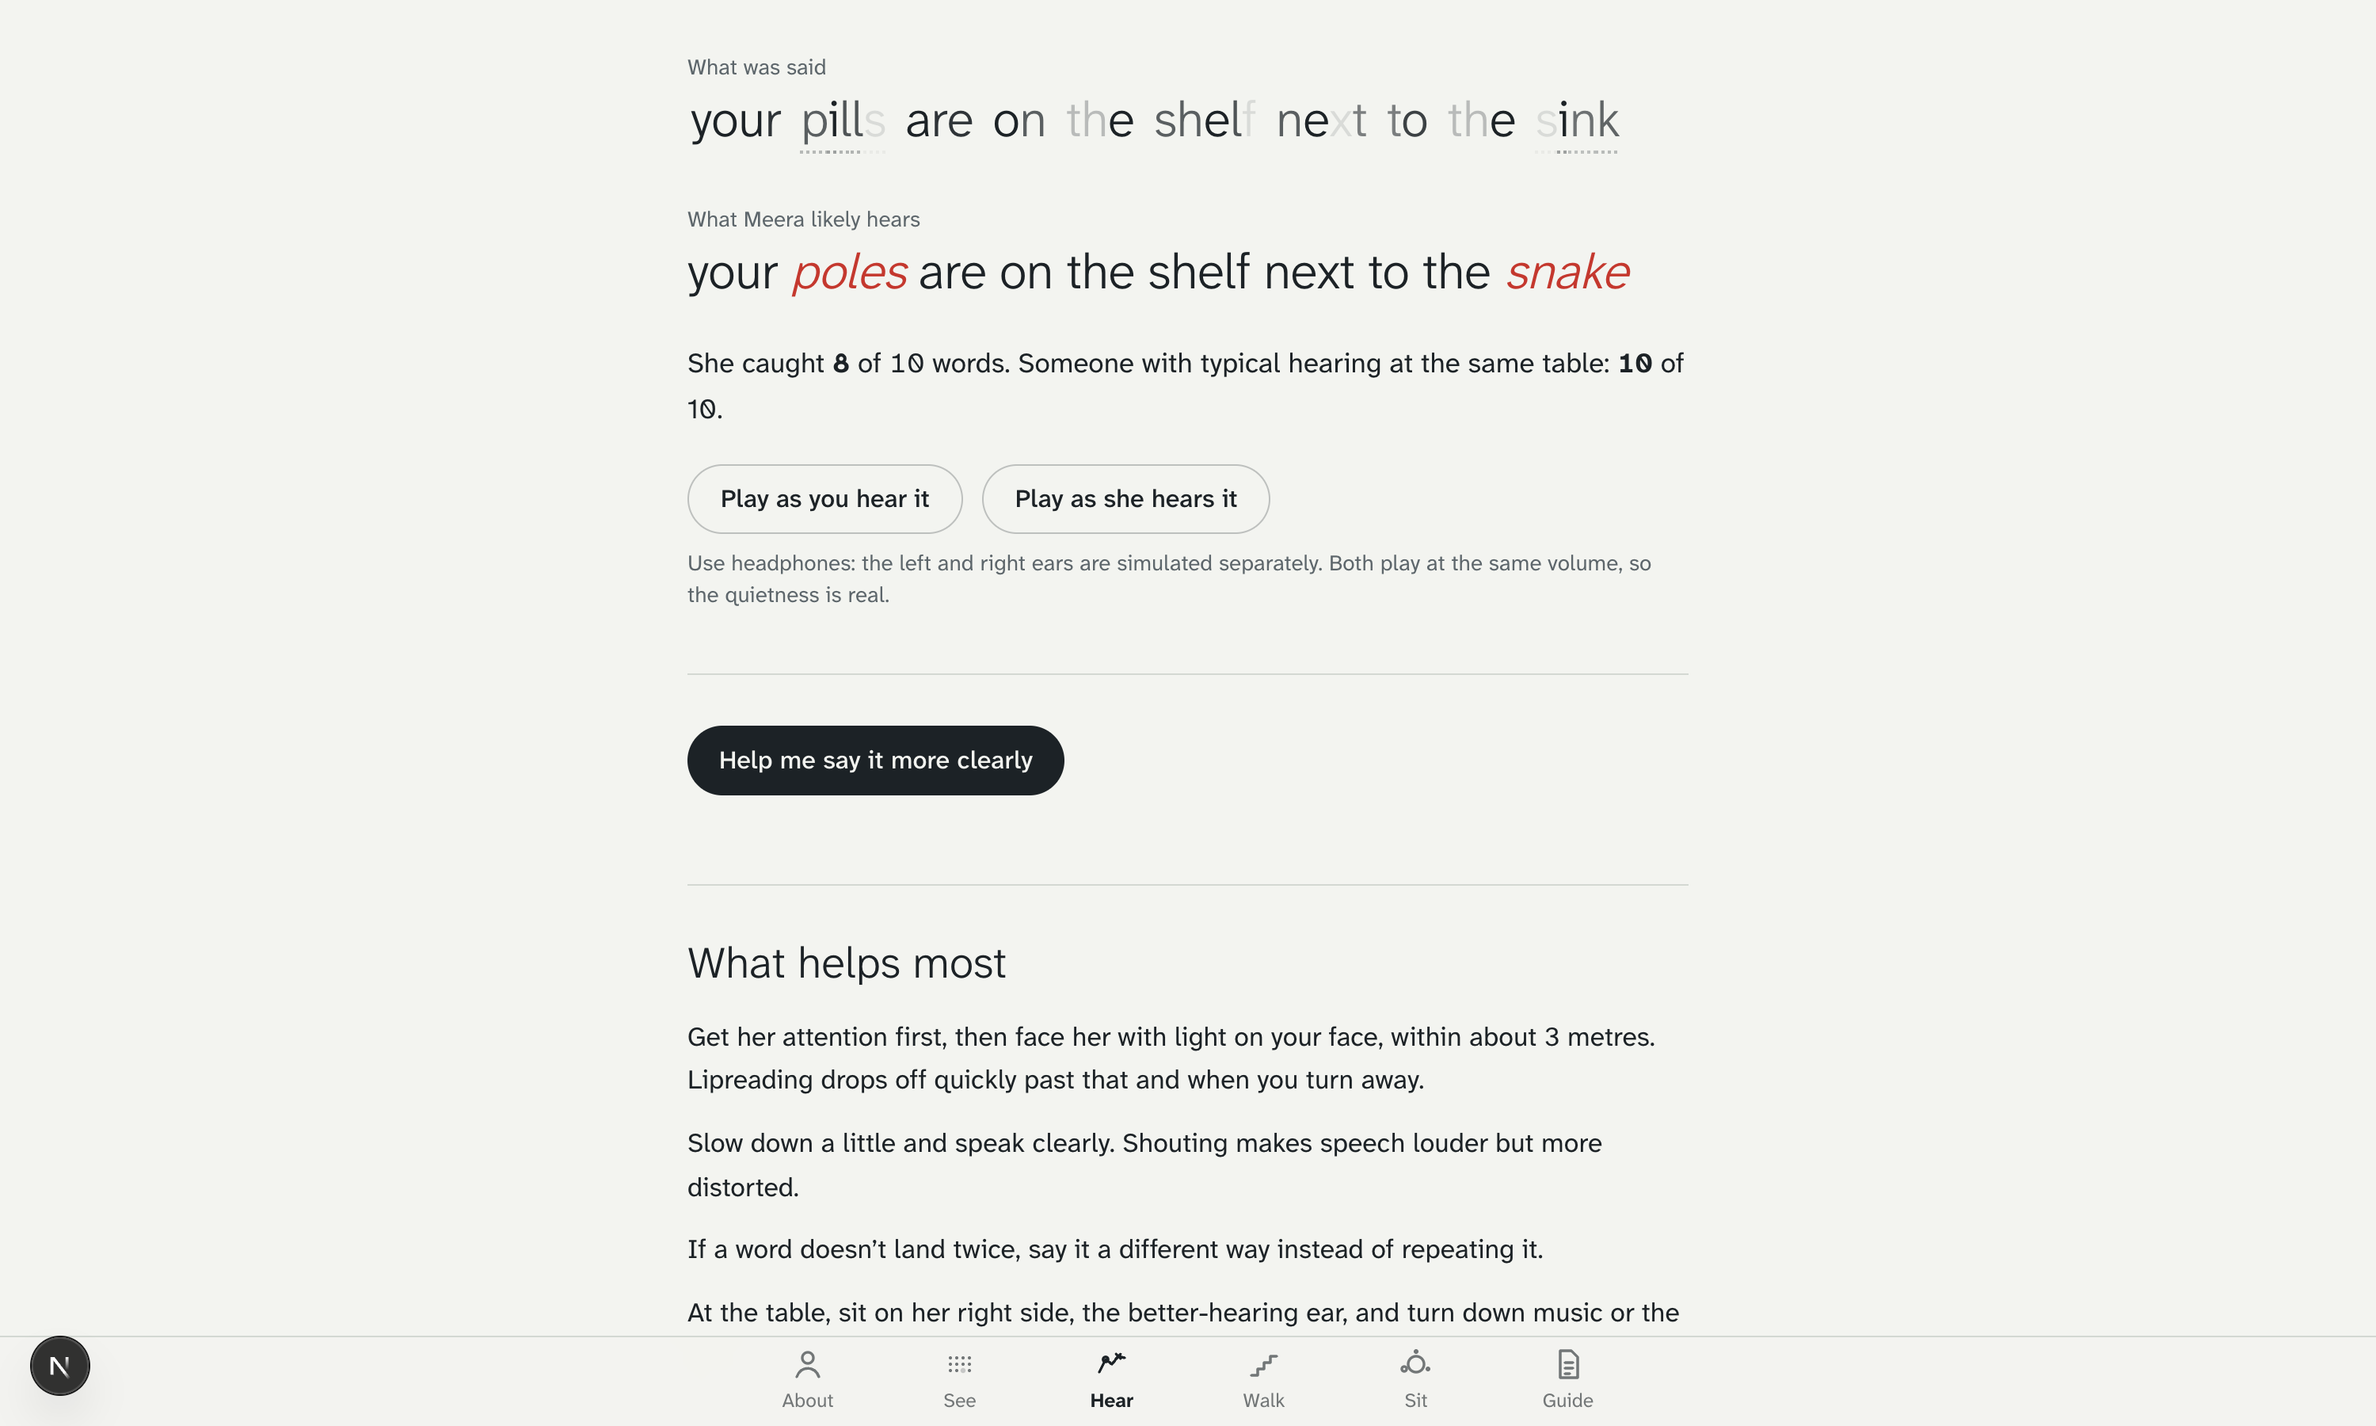
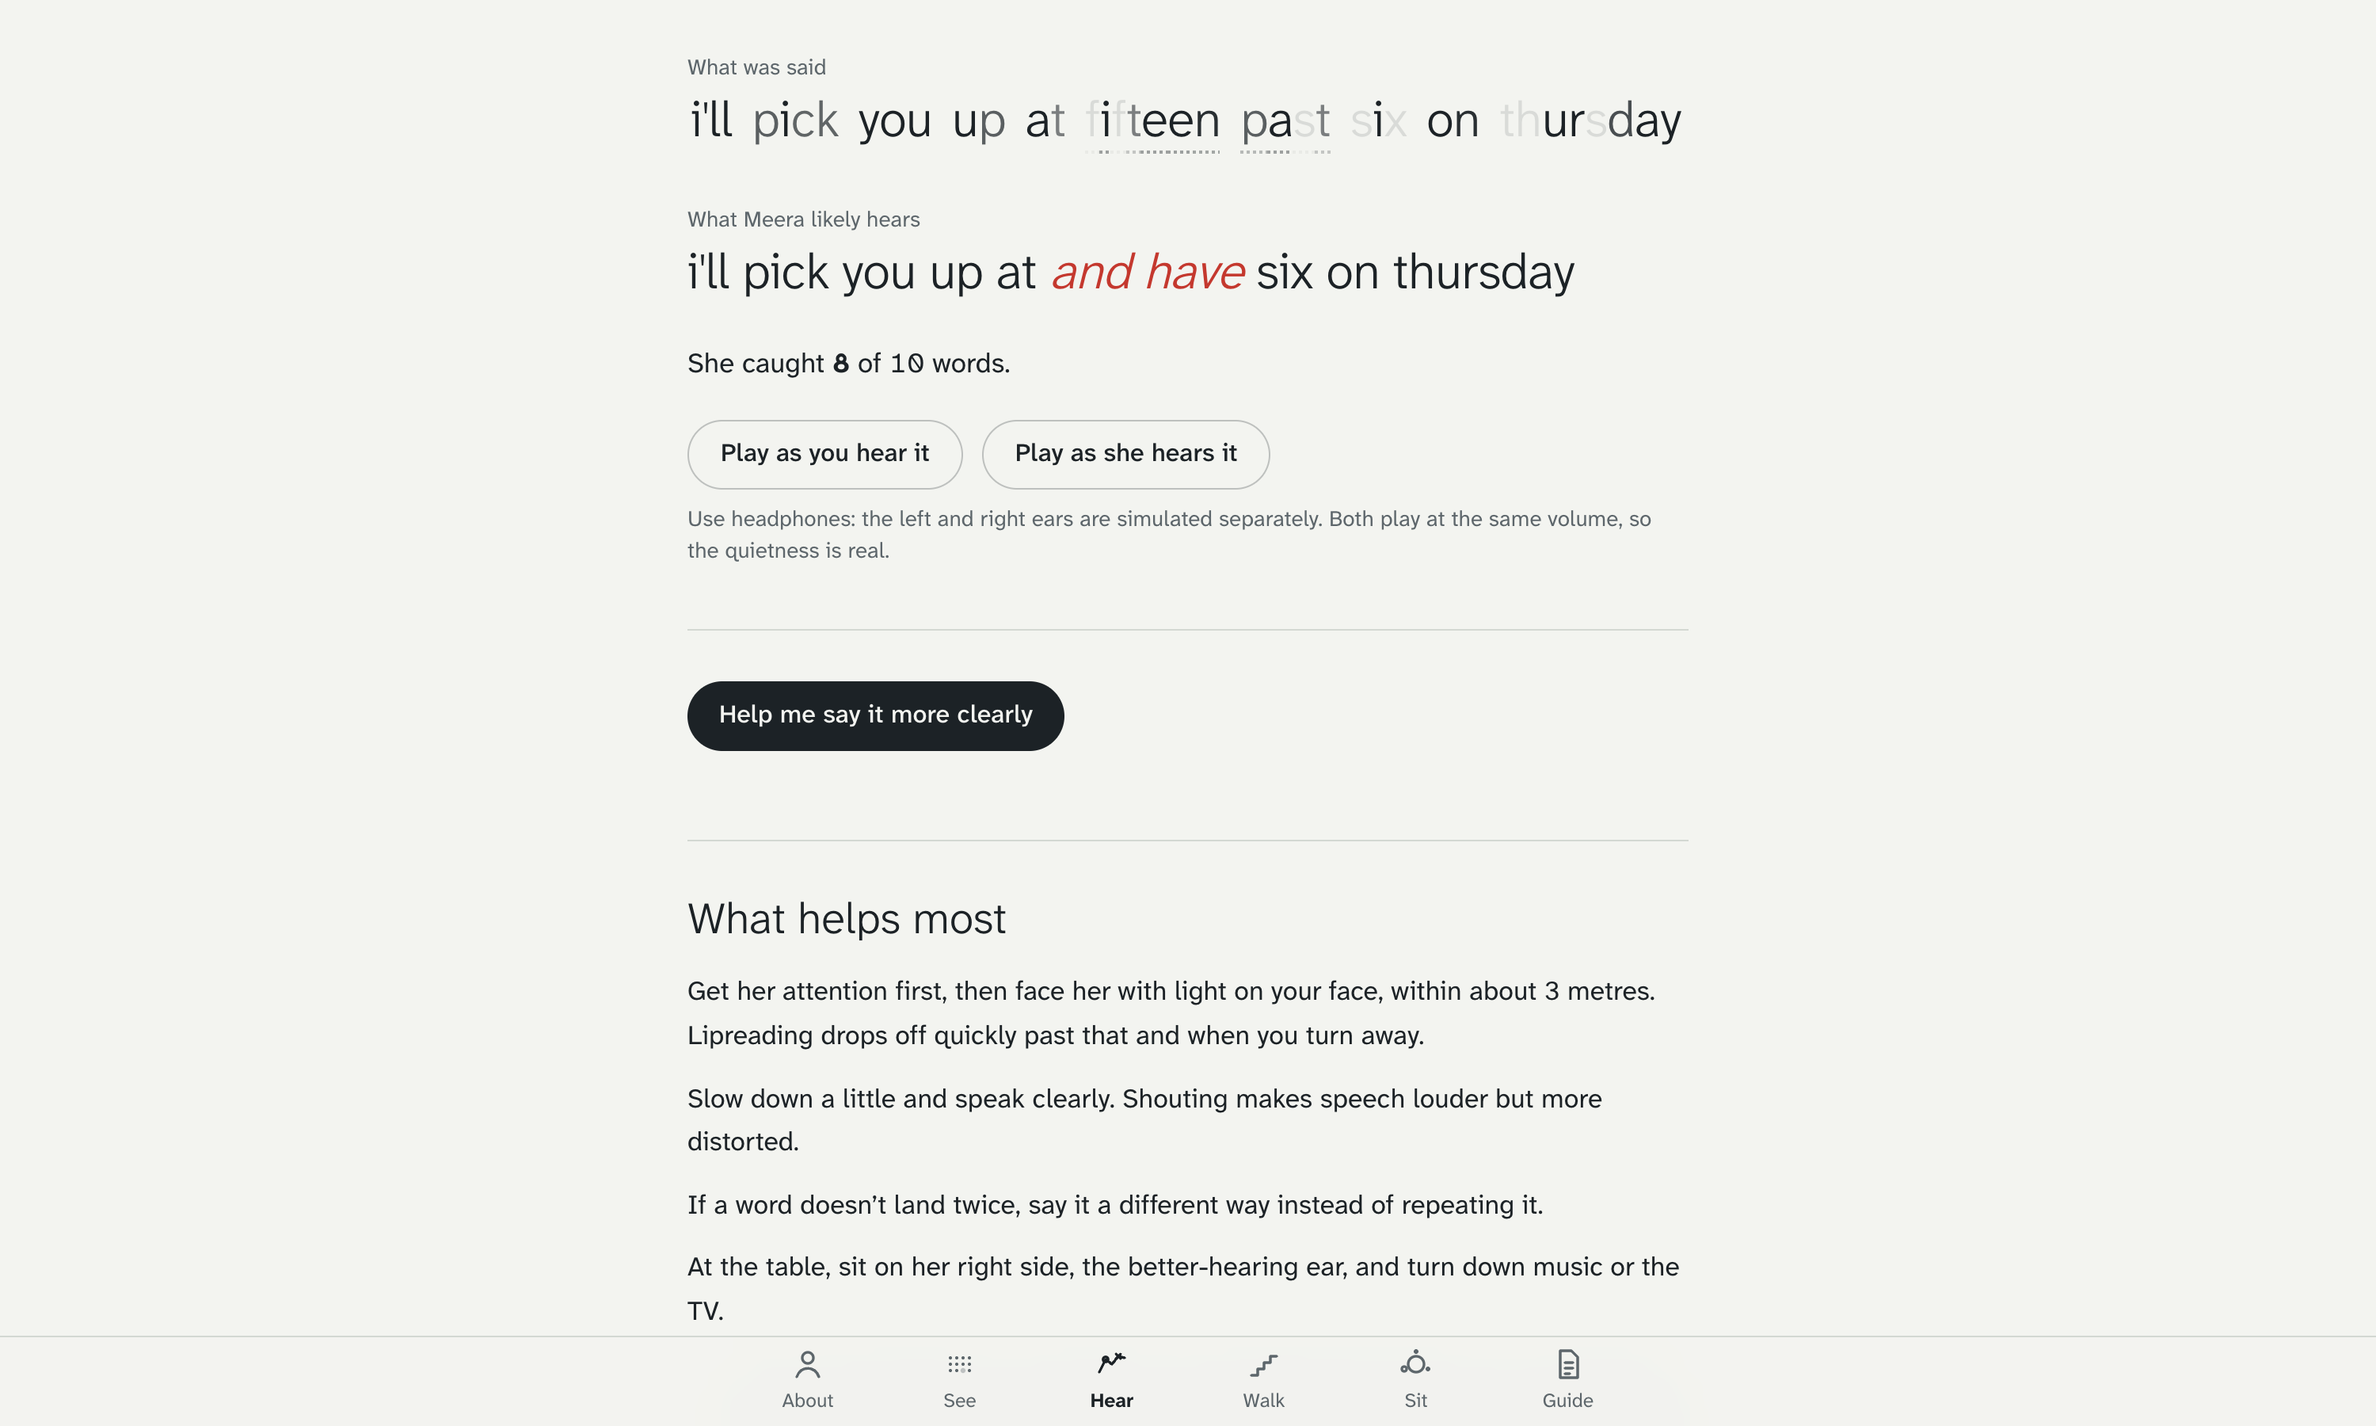
Show every heard word, including insertions (fifteen -> fifty)
- hearing: heardTokens from a similarity-weighted display alignment; counting still uses the validated alignment
- web: Hear transcript renders heard tokens in order; docs and gallery quote current production output
- gallery script can regenerate single shots (ONLY=hear)

diff --git a/web/src/app/p/[id]/hear/page.tsx b/web/src/app/p/[id]/hear/page.tsx
@@ -93,7 +93,7 @@ export default function Hear() {
           if (ev.type === "said") {
             acc.r = { said: ev.said, words: ev.words, betterEar: ev.betterEar, audio: { you: ev.audio.you }, pending: { her: true, typical: snr !== null } };
           } else if (ev.type === "her" && acc.r) {
-            acc.r = { ...acc.r, words: ev.words, herText: ev.herText, herCorrect: ev.herCorrect, total: ev.total, audio: { ...acc.r.audio, her: ev.audio.her }, pending: { ...acc.r.pending, her: false } };
+            acc.r = { ...acc.r, words: ev.words, herText: ev.herText, heardTokens: ev.heardTokens, herCorrect: ev.herCorrect, total: ev.total, audio: { ...acc.r.audio, her: ev.audio.her }, pending: { ...acc.r.pending, her: false } };
           } else if (ev.type === "typical" && acc.r) {
             acc.r = { ...acc.r, typicalCorrect: ev.typicalCorrect, pending: { ...acc.r.pending, typical: false } };
           } else if (ev.type === "done" && acc.r) {
@@ -332,14 +332,18 @@ export default function Hear() {
               <p className="mt-2 animate-pulse text-[1.1rem] text-graphite">Listening through {person.name}’s hearing…</p>
             ) : (
             <p className="mt-1 text-[2rem] font-light leading-[1.25] tracking-[-0.01em]">
-              {result.words.map((w, i) => (
+              {(result.heardTokens ?? []).map((t, i) => (
                 <span key={i}>
-                  {w.status === "heard" ? (
-                    <span>{w.said}</span>
-                  ) : w.status === "misheard" ? (
-                    <span className="italic text-right-ear">{w.heard}</span>
+                  {t.s === "ok" ? (
+                    <span>{t.w}</span>
+                  ) : t.s === "wrong" ? (
+                    <span className="italic text-right-ear" title={t.said ? `said: ${t.said}` : "added"}>
+                      {t.w}
+                    </span>
                   ) : (
-                    <span className="text-graphite">…</span>
+                    <span className="text-graphite" aria-label="unclear">
+                      …
+                    </span>
                   )}{" "}
                 </span>
               ))}

diff --git a/web/src/app/dev/renderer/RendererTest.tsx b/web/src/app/dev/renderer/RendererTest.tsx
@@ -1,6 +1,6 @@
 "use client";
 
-import { useEffect, useState } from "react";
+import { useEffect, useRef } from "react";
 import { emptyGrid, interpolateField, MAP_SIZE, PRINTOUT_ROWS } from "@/lib/field";
 import { FieldRenderer } from "@/lib/vision/renderer";
 
@@ -46,7 +46,7 @@ function stats(px: Uint8Array) {
 }
 
 export function RendererTest() {
-  const [result, setResult] = useState<string>("running");
+  const out = useRef<HTMLPreElement>(null);
   useEffect(() => {
     const canvas = document.createElement("canvas");
     canvas.width = SIZE;
@@ -84,10 +84,14 @@ export function RendererTest() {
       moderateKeepsSome: levels[2].rms > 0.05 * s0.rms,
       meanPreserved: meanDrift < 0.04,
     };
-    const out = { pass: Object.values(checks).every(Boolean), checks, identityErr, deepFraction, meanDrift, levels, originalRms: s0.rms };
-    (window as unknown as { __rendererTest: unknown }).__rendererTest = out;
-    setResult(JSON.stringify(out, null, 1));
+    const result = { pass: Object.values(checks).every(Boolean), checks, identityErr, deepFraction, meanDrift, levels, originalRms: s0.rms };
+    (window as unknown as { __rendererTest: unknown }).__rendererTest = result;
+    if (out.current) out.current.textContent = JSON.stringify(result, null, 1);
     r.dispose();
   }, []);
-  return <pre className="p-4 text-xs">{result}</pre>;
+  return (
+    <pre ref={out} className="p-4 text-xs">
+      running
+    </pre>
+  );
 }

diff --git a/web/src/lib/hear.ts b/web/src/lib/hear.ts
@@ -19,6 +19,8 @@ export interface HearResult {
   betterEar: "left" | "right";
   audio: { you: string; her?: string };
   herText?: string;
+  /** Every heard word in order (including ones that replace or add to what was said). */
+  heardTokens?: { w: string; s: "ok" | "wrong" | "unclear"; said?: string | null }[];
   herCorrect?: number;
   total?: number;
   typicalCorrect?: number;

diff --git a/hearing/app/text.py b/hearing/app/text.py
@@ -56,3 +56,43 @@ def align(ref: list[str], hyp: list[str]) -> list[tuple[str | None, str | None]]
 
 def words_correct(ref: list[str], hyp: list[str]) -> int:
     return sum(1 for r, h in align(ref, hyp) if r is not None and r == h)
+
+
+def _similar(a: str, b: str) -> float:
+    from difflib import SequenceMatcher
+
+    return SequenceMatcher(None, a, b).ratio()
+
+
+def align_for_display(ref: list[str], hyp: list[str]) -> list[tuple[str | None, str | None]]:
+    """Alignment for showing what was heard: substitutions between similar-sounding
+    spellings (fifteen / fifty) are cheaper, so the pairing reads naturally.
+
+    Display only. Word counting uses align(), which the validation also uses.
+    """
+    n, m = len(ref), len(hyp)
+    d = [[0.0] * (m + 1) for _ in range(n + 1)]
+    for i in range(n + 1):
+        d[i][0] = float(i)
+    for j in range(m + 1):
+        d[0][j] = float(j)
+
+    def sub(a: str, b: str) -> float:
+        return 0.0 if a == b else 1.0 - 0.6 * _similar(a, b)
+
+    for i in range(1, n + 1):
+        for j in range(1, m + 1):
+            d[i][j] = min(d[i - 1][j] + 1, d[i][j - 1] + 1, d[i - 1][j - 1] + sub(ref[i - 1], hyp[j - 1]))
+    pairs: list[tuple[str | None, str | None]] = []
+    i, j = n, m
+    while i > 0 or j > 0:
+        if i > 0 and j > 0 and abs(d[i][j] - (d[i - 1][j - 1] + sub(ref[i - 1], hyp[j - 1]))) < 1e-9:
+            pairs.append((ref[i - 1], hyp[j - 1]))
+            i, j = i - 1, j - 1
+        elif i > 0 and abs(d[i][j] - (d[i - 1][j] + 1)) < 1e-9:
+            pairs.append((ref[i - 1], None))
+            i -= 1
+        else:
+            pairs.append((None, hyp[j - 1]))
+            j -= 1
+    return pairs[::-1]

diff --git a/hearing/app/main.py b/hearing/app/main.py
@@ -35,7 +35,7 @@ from app.sim import (
     to_fs,
     transcribe,
 )
-from app.text import align, normalize_words, words_correct
+from app.text import align, align_for_display, normalize_words, words_correct
 
 UNCLEAR_P = 0.4  # below this word probability the proxy listener is guessing
 PLAYBACK_FS = 22050
@@ -99,6 +99,23 @@ def _alignment(ref: list[str], heard: list[str]) -> list[dict]:
             status = "misheard"
         rows.append(dict(said=r, heard=h, status=status))
     return rows
+
+
+def _heard_display(ref: list[str], heard: list[str]) -> list[dict]:
+    """Every heard token in order, marked ok / wrong / unclear, for the transcript view."""
+    out: list[dict] = []
+    prev_unclear = False
+    for r, h in align_for_display(ref, heard):
+        if h is None:
+            continue
+        if h == "…":
+            if not prev_unclear:
+                out.append(dict(w="…", s="unclear"))
+            prev_unclear = True
+            continue
+        prev_unclear = False
+        out.append(dict(w=h, s="ok" if h == r else "wrong", said=r))
+    return out
 
 
 def _heard_text(heard: list[str]) -> str:
@@ -207,6 +224,7 @@ async def hear(
             dict(
                 type="her",
                 herText=_heard_text(heard),
+                heardTokens=_heard_display(ref, heard),
                 words=rows,
                 herCorrect=sum(r["status"] == "heard" for r in rows),
                 total=len(rows),

diff --git a/docs/SUBMISSION.md b/docs/SUBMISSION.md
@@ -27,7 +27,7 @@ We wanted a family to understand one specific person, from that person’s own t
 You load a visual field test (typed from the Humphrey printout, or a close match from 28,943 real anonymized tests) and an audiogram. Then:
 
 - **See.** The phone camera, or a sample room, rendered through their field. Detail and contrast fade where their vision is weaker; where it is weakest, objects disappear into the colour around them, the way patients describe it. Drag a divider to compare with your own view, scrub through years of their tests, and switch on dim light with glare.
-- **Hear.** Say a sentence. It plays through a model of their hearing, and a speech recogniser listening through that model shows what they probably heard. At a busy table, “your pills are on the shelf next to the sink” becomes “your *poles* are on the shelf next to the *snake*”. Letters fade by how audible each sound is. Toggle hearing aids. Play it back through their ears.
+- **Hear.** Say a sentence. It plays through a model of their hearing, and a speech recogniser listening through that model shows what they probably heard. In a quiet room, “I’ll pick you up at fifteen past six on Thursday” becomes “I’ll pick you up at *fifty* and have six on Thursday”; at a busy table she loses half the sentence while someone with typical hearing keeps most of it. Letters fade by how audible each sound is. Toggle hearing aids. Play it back through their ears.
 - **Say it better.** Claude writes rewordings; each one, and the original, is spoken by the same synthetic voice and scored by the same hearing model, so only rewordings that really come through better are shown.
 - **Walk it together.** Aim the phone where they’d look while walking. A depth model running on the phone finds step edges; for each, we measure its contrast and compare it with what their vision needs at that exact spot. Edges in the lower field, where loss is linked to falls, come first. Try a contrasting strip and watch the verdict change. They decide what gets done.
 - **Sit.** Where to sit at the table so they hear you with their better ear and see your face in the clear part of their vision, without the window behind you.
@@ -93,7 +93,7 @@ Record the screen at 1920×1080 on a laptop (Chrome, GPU on), with your own voic
 | 0:08–0:18 | Same screen, drag the divider slowly left to right | “This is closer: their own test results, applied to a real room. Things don’t go black. They fade, and then they disappear into what’s around them.” |
 | 0:18–0:32 | `/` landing, then Try the example → About page | “Through Their Senses starts from one person’s real visual field test and hearing test. This is Meera, an example built from two real anonymized records. We start with what still works.” |
 | 0:32–0:55 | Back to See: scrub the age slider from 61 to 71, toggle Dim light | “Ten years of her tests. And at night, with a lamp in view, it gets harder. Everything here is exact while you keep your eyes on the cross, the way the test is done.” |
-| 0:55–1:30 | `/p/example/hear`, Dinner table on, tap the pills sample; let the stages appear; press Play as she hears it (headphones) | “Now her hearing. At a busy table, I say: your pills are on the shelf next to the sink. She hears: your poles are on the shelf next to the snake. Someone with typical hearing gets every word. The faded letters are the sounds she can’t catch: s, t, f, th.” |
+| 0:55–1:30 | `/p/example/hear`, Quiet room, tap the “fifteen past six” sample (or say it yourself); let the stages appear; then switch to Dinner table; press Play as she hears it (headphones) | “Now her hearing. I say: I’ll pick you up at fifteen past six on Thursday. Even in a quiet room, she hears: fifty. The faded letters are the sounds she can’t catch: f, s, t, th. At a dinner table, she loses half the sentence, while someone with typical hearing keeps most of it.” |
 | 1:30–1:45 | Tap Help me say it more clearly | “Claude suggests other ways to say it, and every suggestion is checked against her hearing model before we show it.” |
 | 1:45–2:15 | `/p/example/walk`, Stairs, Check this spot; tap card 1, Try a contrasting strip; Yes, she wants it | “Walking the house together. The phone finds the step edges, measures their contrast, and compares it with what her vision needs at that spot. These treads are hidden from her. She decides what to change.” |
 | 2:15–2:30 | `/p/example/sit`, then `/p/example/guide` | “Where to sit so she hears your voice and sees your face. And everything becomes one page she can edit and share.” |

diff --git a/README.md b/README.md
@@ -19,7 +19,7 @@ Disability simulations can backfire when shown alone, making people rate disable
 | Screen | What happens |
 |---|---|
 | **See** | The camera (or a sample room) through their visual field: detail and contrast fade where their field is weaker, and objects disappear into their surroundings where it’s weakest. Drag to compare with your view; scrub through years of tests; dim-light mode. |
-| **Hear** | Say a sentence. It plays through a model of their hearing; a speech recogniser listening through that model shows what they probably heard (“your pills are on the shelf next to the sink” becomes “your *poles* … next to the *snake*”). Letters fade by how audible each sound is. Quiet room or dinner table, with or without hearing aids. |
+| **Hear** | Say a sentence. It plays through a model of their hearing; a speech recogniser listening through that model shows what they probably heard (in a quiet room, “I’ll pick you up at fifteen past six on Thursday” becomes “I’ll pick you up at *fifty* and have six on Thursday”). Letters fade by how audible each sound is. Quiet room or dinner table, with or without hearing aids. |
 | **Say it better** | Claude writes rewordings; each is spoken by one synthetic voice and scored by the same hearing model, and only the ones that come through better are shown. |
 | **Walk** | Aim the phone where they’d look while walking. An on-device depth model finds step edges; each edge’s contrast is compared with what their vision needs at that spot. Try a contrasting strip and see the verdict change; they decide what to do. |
 | **Sit** | Where to sit at the table so they can hear you and see your face: better-ear side, face in their clear field, not backlit. |
